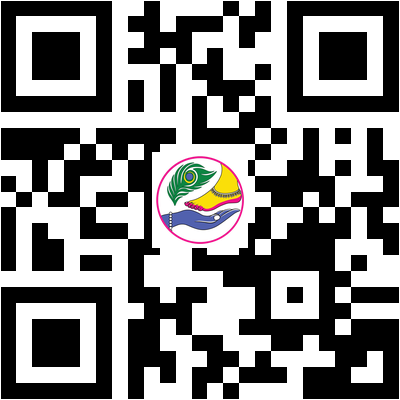
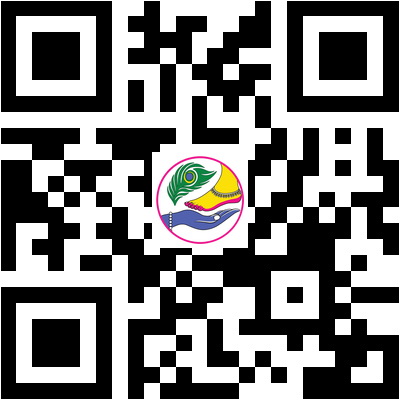
Update Maan Mandir app QR code URL to app.MaanMandir.org v51

diff --git a/index.html b/index.html
@@ -12,7 +12,7 @@
   <meta name="apple-mobile-web-app-status-bar-style" content="default">
   <meta name="apple-mobile-web-app-title" content="Maan Mandir">
   <link rel="manifest" href="manifest.json">
-  <link rel="icon" type="image/png" href="assets/images/maanini_app_logo.png?v=50">
+  <link rel="icon" type="image/png" href="assets/images/maanini_app_logo.png?v=51">
 
   <!-- Typography: Google Fonts Plus Jakarta Sans & Noto Sans Devanagari for Hindi -->
   <link rel="preconnect" href="https://fonts.googleapis.com">
@@ -20,7 +20,7 @@
   <link href="https://fonts.googleapis.com/css2?family=Noto+Sans+Devanagari:wght@400;600;700;800&family=Plus+Jakarta+Sans:ital,wght@0,400..800;1,400..800&display=swap" rel="stylesheet">
 
   <!-- Stylesheet with Cache Busting Version 42 -->
-  <link rel="stylesheet" href="styles.css?v=50">
+  <link rel="stylesheet" href="styles.css?v=51">
 </head>
 <body>
 
@@ -51,7 +51,7 @@
           
           <!-- Interactive Brand Logo & Title (Click to Go Home) -->
           <div style="display: flex; align-items: center; gap: 10px; cursor: pointer;" onclick="switchTab('home')" title="Go to Home Page">
-            <img src="assets/images/maanini_app_logo.png?v=50" alt="Maan Mandir Logo" class="brand-icon">
+            <img src="assets/images/maanini_app_logo.png?v=51" alt="Maan Mandir Logo" class="brand-icon">
             <div class="brand-title-group">
               <h1 id="txt-app-title">Maan Mandir</h1>
               <span id="txt-app-subtitle">Gahvarvan Barsana</span>
@@ -112,7 +112,7 @@
 
         <!-- Compact Hero Darshan Banner -->
         <div class="hero-card">
-          <img src="assets/images/hero_banner.jpg?v=50" alt="Maan Mandir Barsana" class="hero-image">
+          <img src="assets/images/hero_banner.jpg?v=51" alt="Maan Mandir Barsana" class="hero-image">
           <div class="hero-overlay">
             <span class="hero-tag" id="txt-hero-tag">Barsana Dham</span>
             <h2 class="hero-title" id="txt-hero-title">Shri Maan Mandir Seva Sansthan Trust</h2>
@@ -320,7 +320,7 @@
         <!-- 🏛 SHRI MAAN BIHARI LAL MANDIR SEWA (LEELA STHAL PURUDDHAR & DHAM SEVA) -->
         <div class="donation-card" style="border-left: 4px solid var(--gold-accent); margin-bottom: 20px;">
           <div class="donation-card-header">
-            <img src="assets/images/maanini_app_logo.png?v=50" alt="Maan Mandir Logo" style="width:36px; height:36px; border-radius: var(--radius-full); object-fit:contain; border:1px solid var(--border-blue); padding:2px;">
+            <img src="assets/images/maanini_app_logo.png?v=51" alt="Maan Mandir Logo" style="width:36px; height:36px; border-radius: var(--radius-full); object-fit:contain; border:1px solid var(--border-blue); padding:2px;">
             <div>
               <h3 style="font-size: 1.05rem; font-weight: 800; color: var(--primary-blue);">SHRI MAAN BIHARI LAL MANDIR SEWA</h3>
               <p style="font-size: 0.78rem; color: var(--text-muted);">Leela Sthal Puruddhar & Dham Seva • HDFC Bank / UPI</p>
@@ -329,7 +329,7 @@
 
           <!-- Official Banner Image Display -->
           <div class="qr-standee-container" style="margin-bottom: 12px; background: #fff3e0;">
-            <img src="assets/images/maan_bihari_lal_banner.jpg?v=50" alt="Shri Maan Bihari Lal Mandir Sewa Banner" class="qr-standee-img" style="max-width: 100%;">
+            <img src="assets/images/maan_bihari_lal_banner.jpg?v=51" alt="Shri Maan Bihari Lal Mandir Sewa Banner" class="qr-standee-img" style="max-width: 100%;">
           </div>
 
           <div style="background: #FFFBEB; border: 1px solid #FDE68A; padding: 10px 12px; border-radius: var(--radius-sm); margin-bottom: 12px; font-size: 0.82rem; color: #92400E; line-height: 1.45; font-weight: 700;">
@@ -376,7 +376,7 @@
         <!-- BharatQR Official Enhanced Standee Card -->
         <div class="donation-card">
           <div class="donation-card-header">
-            <img src="assets/images/maanini_app_logo.png?v=50" alt="Maan Mandir Logo" style="width:36px; height:36px; border-radius: var(--radius-full); object-fit:contain; border:1px solid var(--border-blue); padding:2px;">
+            <img src="assets/images/maanini_app_logo.png?v=51" alt="Maan Mandir Logo" style="width:36px; height:36px; border-radius: var(--radius-full); object-fit:contain; border:1px solid var(--border-blue); padding:2px;">
             <div>
               <h3 style="font-size: 1.05rem; font-weight: 800; color: var(--primary-blue);">SHRI MATAJI GAUVANSH SEWA</h3>
               <p style="font-size: 0.78rem; color: var(--text-muted);">Axis Bank BharatQR • BHIM UPI / RuPay / Cards</p>
@@ -385,7 +385,7 @@
 
           <!-- Enhanced High-Resolution QR Standee Image Display -->
           <div class="qr-standee-container">
-            <img src="assets/images/gauseva_qr_standee.jpg?v=50" alt="Shri Mataji Gauvansh Sewa BharatQR Code" class="qr-standee-img">
+            <img src="assets/images/gauseva_qr_standee.jpg?v=51" alt="Shri Mataji Gauvansh Sewa BharatQR Code" class="qr-standee-img">
           </div>
 
           <!-- Copyable Payment Identifiers Grid -->
@@ -482,7 +482,7 @@
     <aside id="side-drawer-panel" class="side-drawer-panel">
       <div class="side-drawer-header">
         <div class="brand-wrapper" style="cursor: pointer;" onclick="handleSideMenuLinkClick(true, 'home', '', '');">
-          <img src="assets/images/maanini_app_logo.png?v=50" alt="Maan Mandir Logo" class="brand-icon" style="width:34px; height:34px;">
+          <img src="assets/images/maanini_app_logo.png?v=51" alt="Maan Mandir Logo" class="brand-icon" style="width:34px; height:34px;">
           <div class="brand-title-group">
             <h2 style="font-size: 0.98rem; font-weight:800; color: #FFF; line-height:1.1;">Maan Mandir</h2>
             <span style="font-size: 0.68rem; color: var(--gold-accent);">Gahvarvan Barsana</span>
@@ -533,19 +533,19 @@
         <!-- 1. Maan Mandir App QR Display -->
         <div id="qr-pane-mm" class="qr-pane active">
           <div style="background: var(--bg-tertiary); border: 2px solid var(--border-blue); border-radius: var(--radius-md); padding: 14px; display: inline-block; margin-bottom: 12px; box-shadow: var(--shadow-sm);">
-            <img src="assets/images/qr_maanmandir_app_branded.png?v=50" alt="Maan Mandir App QR Code" style="width: 220px; height: 220px; display: block; margin: 0 auto; border-radius: var(--radius-xs);">
+            <img src="assets/images/qr_maanmandir_app_branded.png?v=51" alt="Maan Mandir App QR Code" style="width: 220px; height: 220px; display: block; margin: 0 auto; border-radius: var(--radius-xs);">
           </div>
           <div style="font-size: 0.88rem; font-weight: 800; color: var(--primary-blue); margin-bottom: 2px;">
             Maan Mandir Mobile Portal
           </div>
           <div style="font-size: 0.78rem; color: var(--text-muted); margin-bottom: 14px;">
-            https://maanmandir.app
+            https://app.MaanMandir.org
           </div>
           <div style="display: flex; gap: 8px; justify-content: center;">
-            <button class="btn-primary" onclick="copyToClipboard('https://maanmandir.app', 'App Link Copied!')">
+            <button class="btn-primary" onclick="copyToClipboard('https://app.MaanMandir.org', 'App Link Copied!')">
               📋 Copy Link
             </button>
-            <a href="assets/images/qr_maanmandir_app_branded.png?v=50" download="MaanMandir_App_QR.png" class="btn-outline" style="text-decoration:none;">
+            <a href="assets/images/qr_maanmandir_app_branded.png?v=51" download="MaanMandir_App_QR.png" class="btn-outline" style="text-decoration:none;">
               ⬇ Save QR
             </a>
           </div>
@@ -554,7 +554,7 @@
         <!-- 2. Maanini.app QR Display -->
         <div id="qr-pane-maanini" class="qr-pane" style="display: none;">
           <div style="background: var(--bg-tertiary); border: 2px solid var(--border-blue); border-radius: var(--radius-md); padding: 14px; display: inline-block; margin-bottom: 12px; box-shadow: var(--shadow-sm);">
-            <img src="assets/images/qr_maanini_app_branded.png?v=50" alt="Maanini.app QR Code" style="width: 220px; height: 220px; display: block; margin: 0 auto; border-radius: var(--radius-xs);">
+            <img src="assets/images/qr_maanini_app_branded.png?v=51" alt="Maanini.app QR Code" style="width: 220px; height: 220px; display: block; margin: 0 auto; border-radius: var(--radius-xs);">
           </div>
           <div style="font-size: 0.88rem; font-weight: 800; color: var(--primary-blue); margin-bottom: 2px;">
             Maanini.app Digital Experience
@@ -566,7 +566,7 @@
             <button class="btn-primary" onclick="copyToClipboard('https://maanini.app', 'Maanini Link Copied!')">
               📋 Copy Link
             </button>
-            <a href="assets/images/qr_maanini_app_branded.png?v=50" download="Maanini_App_QR.png" class="btn-outline" style="text-decoration:none;">
+            <a href="assets/images/qr_maanini_app_branded.png?v=51" download="Maanini_App_QR.png" class="btn-outline" style="text-decoration:none;">
               ⬇ Save QR
             </a>
           </div>
@@ -587,7 +587,7 @@
     <div id="pwa-install-banner" class="pwa-install-banner">
       <button id="pwa-install-close-btn" class="pwa-close-btn" onclick="dismissPwaInstall()">✕</button>
       <div class="pwa-banner-header">
-        <img src="assets/images/maanini_app_logo.png?v=50" alt="Maan Mandir App" class="pwa-app-icon">
+        <img src="assets/images/maanini_app_logo.png?v=51" alt="Maan Mandir App" class="pwa-app-icon">
         <div class="pwa-banner-titles">
           <h3 id="txt-pwa-title" class="pwa-title">Add Maan Mandir to Home Screen</h3>
           <p id="txt-pwa-subtitle" class="pwa-subtitle">Access Live Webcasts, Kirtan & Books instantly from your phone!</p>
@@ -637,7 +637,7 @@
   </div>
 
   <!-- Main JavaScript File with Cache Busting Version 42 -->
-  <script src="app.js?v=50"></script>
+  <script src="app.js?v=51"></script>
 
 </body>
 </html>

diff --git a/sw.js b/sw.js
@@ -1,19 +1,19 @@
-// Maan Mandir Devotee Mobile Portal - Service Worker (v50)
-const CACHE_NAME = 'maanmandir-v50';
+// Maan Mandir Devotee Mobile Portal - Service Worker (v51)
+const CACHE_NAME = 'maanmandir-v51';
 const ASSETS_TO_CACHE = [
   './',
   './index.html',
-  './styles.css?v=50',
-  './app.js?v=50',
+  './styles.css?v=51',
+  './app.js?v=51',
   './manifest.json',
-  './assets/images/app_icon.jpg?v=50',
-  './assets/images/maanini_app_logo.png?v=50',
-  './assets/images/hero_banner.jpg?v=50',
-  './assets/images/maan_bihari_lal_banner.jpg?v=50',
-  './assets/images/gauseva_qr_standee.jpg?v=50',
-  './assets/images/gauseva_qr_code.jpg?v=50',
-  './assets/images/qr_maanmandir_app_branded.png?v=50',
-  './assets/images/qr_maanini_app_branded.png?v=50'
+  './assets/images/app_icon.jpg?v=51',
+  './assets/images/maanini_app_logo.png?v=51',
+  './assets/images/hero_banner.jpg?v=51',
+  './assets/images/maan_bihari_lal_banner.jpg?v=51',
+  './assets/images/gauseva_qr_standee.jpg?v=51',
+  './assets/images/gauseva_qr_code.jpg?v=51',
+  './assets/images/qr_maanmandir_app_branded.png?v=51',
+  './assets/images/qr_maanini_app_branded.png?v=51'
 ];
 
 self.addEventListener('install', (event) => {

diff --git a/app.js b/app.js
@@ -1307,7 +1307,7 @@ function registerServiceWorker() {
     navigator.serviceWorker.getRegistrations().then(registrations => {
       registrations.forEach(registration => registration.update());
     });
-    navigator.serviceWorker.register('./sw.js?v=49')
+    navigator.serviceWorker.register('./sw.js?v=51')
       .then(reg => {
         reg.onupdatefound = () => {
           const installingWorker = reg.installing;
